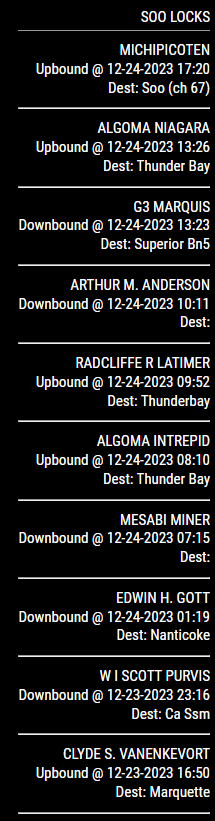
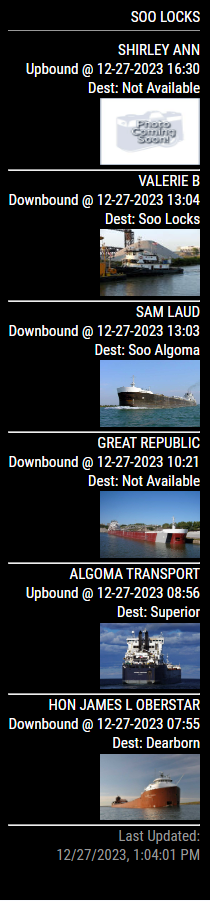
Added 'Last Updated' and added ability to show images. Bug fixes.

diff --git a/MMM-SooLocks.js b/MMM-SooLocks.js
@@ -1,21 +1,36 @@
 Module.register('MMM-SooLocks', {
     // Default module config.
     defaults: {
-        text: 'Loading boat data...',
-        frequency: 30 * 60 * 1000,
+        showImages: false,
+        numberOfShips: 5,
+        fetchInterval: 30 * 60 * 1000,
     },
 
     start: function () {
-        this.sendSocketNotification(
-            'GET BOAT INFO',
-            'Starting to fetch schedule...'
-        );
+        this.getBoatInfo();
         setInterval(() => {
-            this.sendSocketNotification(
-                'GET BOAT INFO',
-                'Starting to fetch schedule...'
-            );
-        }, this.config.frequency);
+            this.getBoatInfo();
+        }, this.config.fetchInterval);
+    },
+
+    getHeader: function () {
+        return 'Soo Locks';
+    },
+
+    getStyles: function () {
+        return ['MMM-SooLocks.css'];
+    },
+
+    // Override dom generator.
+    getDom: function () {
+        let wrapper = document.createElement('div');
+        wrapper.id = 'boatScheduleWrapper';
+        wrapper.innerHTML = 'Loading boat data...';
+        return wrapper;
+    },
+
+    getBoatInfo: function () {
+        this.sendSocketNotification('GET_BOAT_INFO', this.config.numberOfShips);
     },
 
     processBoatInfo: function (data) {
@@ -23,30 +38,56 @@ Module.register('MMM-SooLocks', {
             'boatScheduleWrapper'
         );
         boatScheduleWrapper.innerHTML = '';
+
         for (let ship of data.rows) {
             let info = document.createElement('tr');
-            info.innerHTML = `<div class='small'>${
-                ship.vessel_name.split(';')[0]
-            }</div><div class='small'>${ship.direction_lbl} @ ${
-                ship.destination_eta
-            }</div><div class='small'>Dest: ${ship.destination}</div><hr />`;
+
+            let vessel_name = document.createElement('div');
+            vessel_name.className = 'xsmall';
+            vessel_name.innerText = ship.vessel_name.split(';')[0];
+
+            let vessel_direction = document.createElement('div');
+            vessel_direction.className = 'xsmall';
+            vessel_direction.innerText = `${ship.direction_lbl} @ ${ship.destination_eta}`;
+
+            let vessel_destination = document.createElement('div');
+            vessel_destination.className = 'xsmall';
+            vessel_destination.innerText = `Dest: ${
+                ship.destination || 'Not Available'
+            }`;
+
+            let vessel_image = document.createElement('img');
+            vessel_image.src = ship.vessel_name.split(';')[4];
+            vessel_image.width = '100';
+            vessel_image.style = 'aspect-ratio:3/2';
+
+            info.append(vessel_name, vessel_direction, vessel_destination);
+            if (this.config.showImages) info.append(vessel_image);
+            info.append(document.createElement('hr'));
             boatScheduleWrapper.appendChild(info);
         }
+
+        boatScheduleWrapper.appendChild(this.getTimeStamp());
     },
 
-    // Override dom generator.
-    getDom: function () {
-        let wrapper = document.createElement('div');
-        wrapper.id = 'boatScheduleWrapper';
-        wrapper.innerHTML = this.config.text;
-        return wrapper;
+    getTimeStamp: function () {
+        let timeStamp = document.createElement('div');
+        timeStamp.className = 'xsmall dimmed';
+        timeStamp.innerText = `Last Updated:\n${new Date().toLocaleString(
+            'en-US'
+        )}`;
+        return timeStamp;
     },
-    getHeader: function () {
-        return 'Soo Locks';
-    },
+
     // socketNotificationReceived from helper
     socketNotificationReceived: function (notification, payload) {
-        if (notification === 'BoatLocations') {
+        if (notification === 'FAILED_TO_FETCH') {
+            let boatScheduleWrapper = document.getElementById(
+                'boatScheduleWrapper'
+            );
+            boatScheduleWrapper.innerText = payload;
+            boatScheduleWrapper.appendChild(this.getTimeStamp());
+        } else if (notification === 'BOAT_LOCATIONS') {
             this.processBoatInfo(payload);
         }
     },

diff --git a/node_helper.js b/node_helper.js
@@ -1,30 +1,45 @@
-var NodeHelper = require('node_helper');
+const NodeHelper = require('node_helper');
 const Log = require('logger');
 
-let url =
-    'https://ais.boatnerd.com/passage/getPassageData?search=&sort=destination_eta&order=desc&offset=0&limit=10&port=12';
 module.exports = NodeHelper.create({
     start() {
-        Log.log(`Starting module helper:${this.name}`);
+        Log.log(`Starting module helper: ${this.name}`);
     },
 
     stop() {
         Log.log(`Stopping module helper: ${this.name}`);
     },
-    async fetchBoatData(url) {
-        let data = fetch(url)
+
+    fetchBoatData(numberOfShips) {
+        const nodeVersion = Number(process.version.match(/^v(\d+\.\d+)/)[1]);
+        const headers = {
+            'User-Agent': `Mozilla/5.0 (Node.js ${nodeVersion}) MagicMirror/${global.version}`,
+            'Cache-Control': 'max-age=0, no-cache, no-store, must-revalidate',
+            Pragma: 'no-cache',
+        };
+        let url = `https://ais.boatnerd.com/passage/getPassageData?search=&sort=destination_eta&order=desc&offset=0&limit=${numberOfShips}&port=12`;
+
+        let data = fetch(url, { headers: headers })
             .then((response) => {
                 return response.json();
             })
-            .catch(function (err) {
-                Log.log('Unable to fetch -', err);
+            .then((data) => {
+                Log.info('Pulling info...');
+                this.sendSocketNotification('BOAT_LOCATIONS', data);
+            })
+            .catch((err) => {
+                Log.error('********** Unable to fetch -', err);
+                this.sendSocketNotification(
+                    'FAILED_TO_FETCH',
+                    'Failed to get boat data.\nPlease restart device\nor wait until the next reload.'
+                );
             });
-        this.sendSocketNotification('BoatLocations', await data);
     },
+
     socketNotificationReceived: function (notification, payload) {
-        Log.log(`${this.name}: ${payload}`);
-        if (notification === 'GET BOAT INFO') {
-            this.fetchBoatData(url);
+        Log.info(`${this.name}: Starting to fetch schedule...`);
+        if (notification === 'GET_BOAT_INFO') {
+            this.fetchBoatData(payload);
         }
     },
 });

diff --git a/MMM-SooLocks.css b/MMM-SooLocks.css
@@ -1,0 +1,4 @@
+img + hr {
+    margin-top: -4px;
+    margin-bottom: 1px;
+}

diff --git a/README.md b/README.md
@@ -30,6 +30,8 @@ var config = {
             module: 'MMM-SooLocks',
             position: 'top_right',
             config: {
+                showImages: true,
+                numberOfShips: 5,
                 frequency: 30 * 60 * 1000,
             },
         },
@@ -50,5 +52,4 @@ git pull
 
 ## Known issues and limitations
 
--   No error handing for now but that will be added soon
--   Need to add 'Last Updated' timestamp to make sure data is fresh
+-   Little to no error handing for now but that will be added soon
